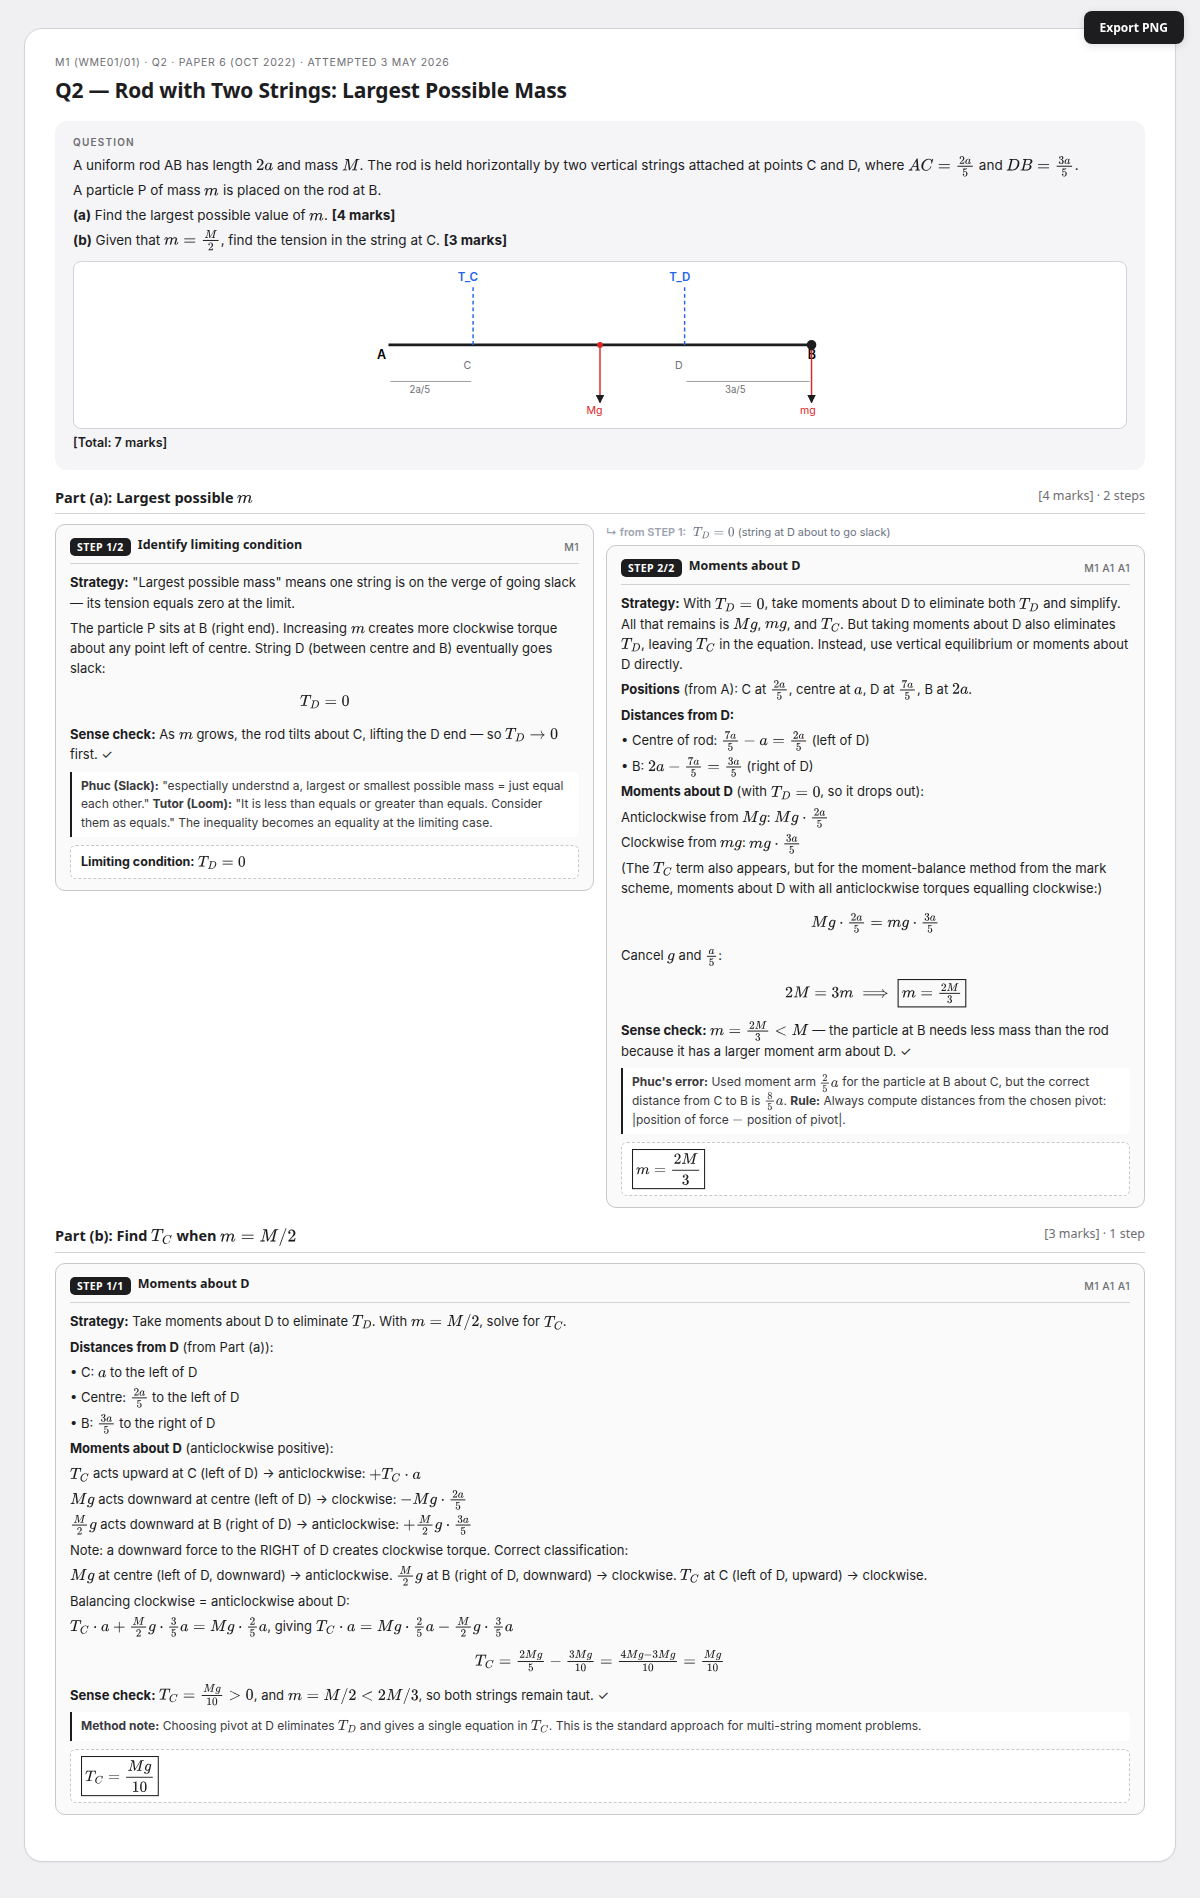
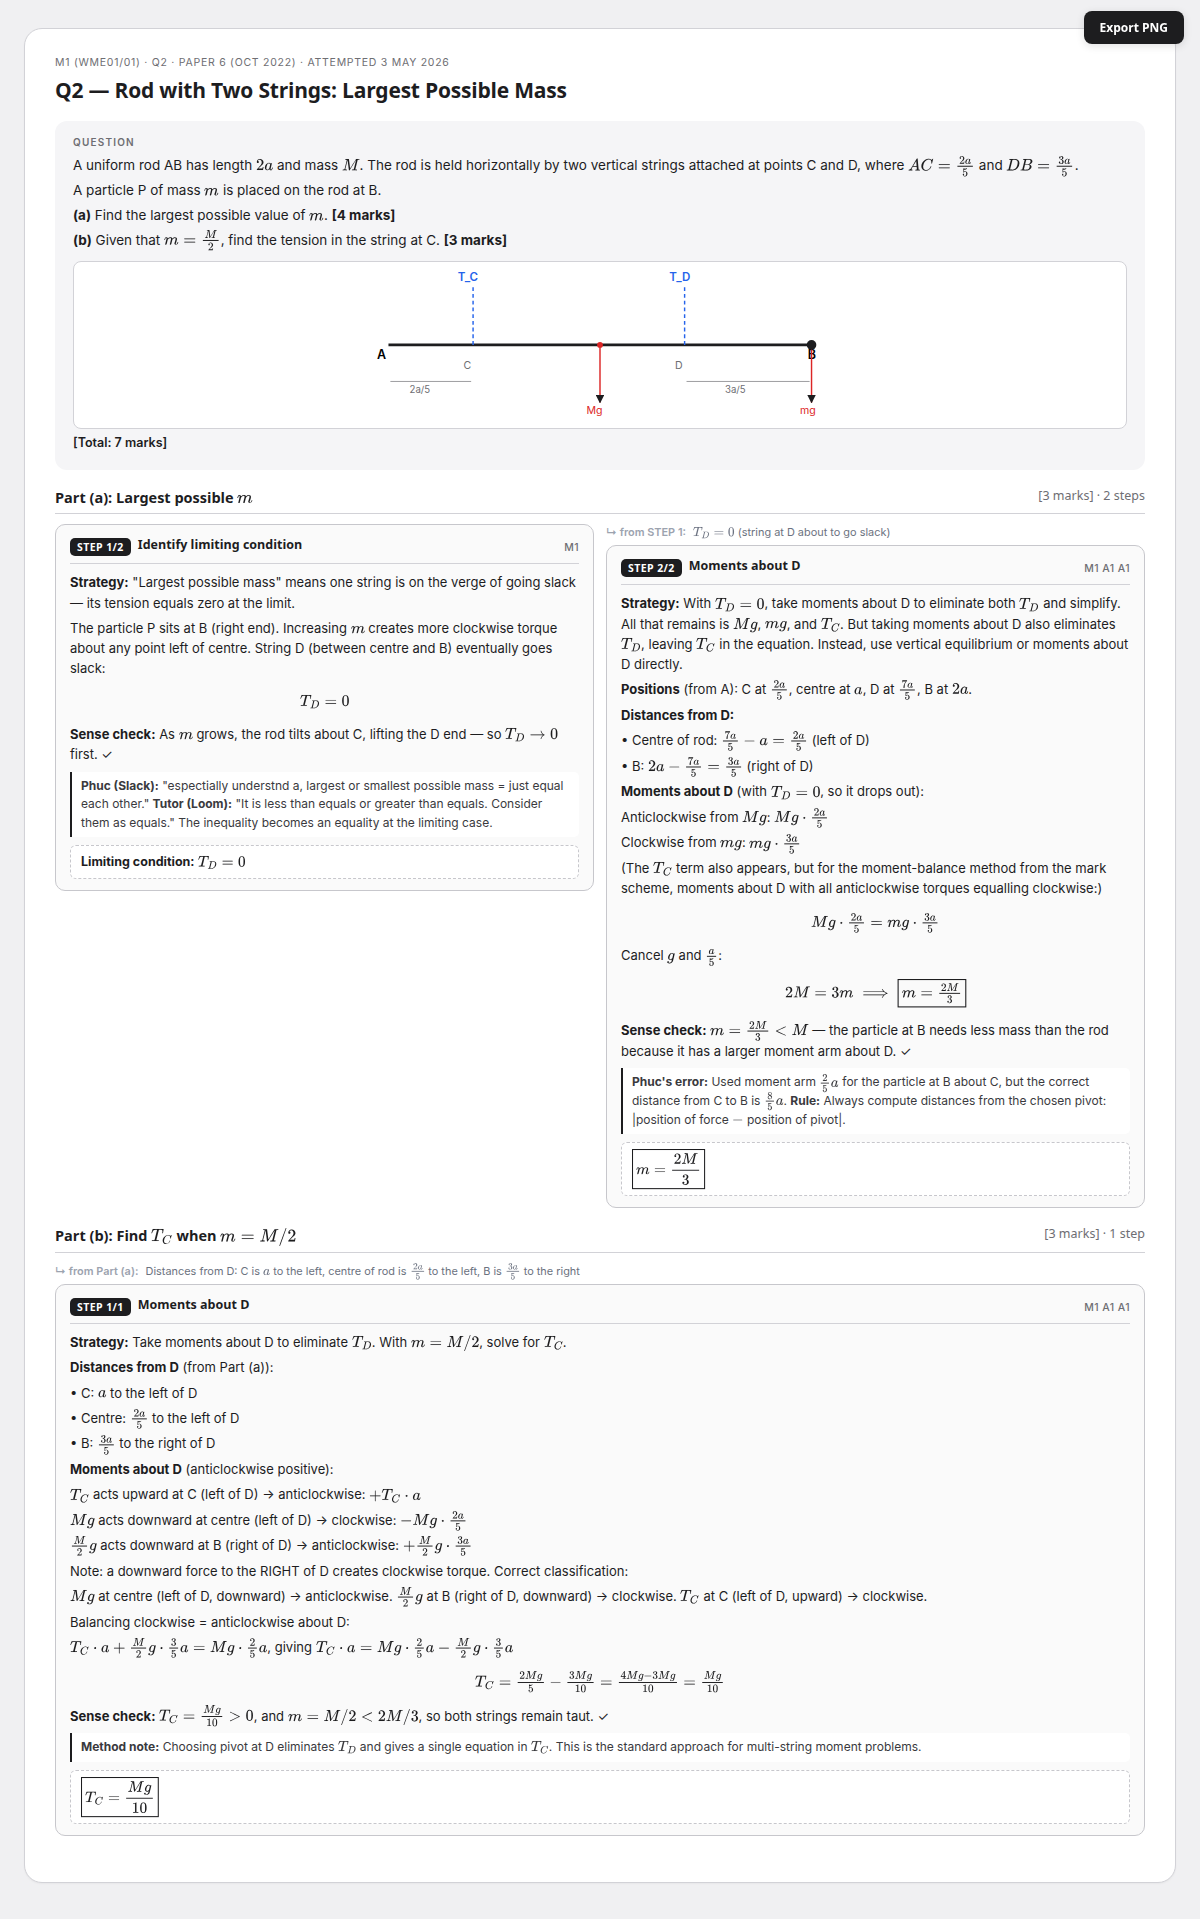
fix: expand carry-in divs for Q2(b) and Q6(b) — standalone solvable
Q2(b): added distances from D (C=a left, centre=2a/5 left, B=3a/5 right)
Q6(b): expanded from just '2p+q-4=0' to include 'R=(-3+p)i+(2+q)j'

diff --git a/flashcards/M1/m1p6_Q2.html b/flashcards/M1/m1p6_Q2.html
@@ -102,7 +102,9 @@ window.MathJax = {
     <div class="part">
       <h2 class="part-h">Part (b): Find $T_C$ when $m = M/2$ <span class="pmarks">[3 marks] · 1 step</span></h2>
       <div class="steps" style="grid-template-columns: 1fr;">
-        <div class="step-wrapper"><div class="step">
+        <div class="step-wrapper">
+          <div class="carry-in"><span class="carry-label">↳ from Part (a):</span> Distances from D: C is $a$ to the left, centre of rod is $\tfrac{2a}{5}$ to the left, B is $\tfrac{3a}{5}$ to the right</div>
+          <div class="step">
           <div class="step-top">
             <span class="step-tag"><span class="step-num">STEP 1/1</span> Moments about D</span>
             <span class="step-marks">M1 A1 A1</span>

diff --git a/flashcards/M1/m1p6_Q6.html b/flashcards/M1/m1p6_Q6.html
@@ -82,7 +82,7 @@ window.MathJax = {
       <h2 class="part-h">Part (b): Speed at $t = 4$ given $p = 5$ <span class="pmarks">[5 marks] · 2 steps</span></h2>
       <div class="steps" style="grid-template-columns: repeat(2, 1fr);">
         <div class="step-wrapper">
-          <div class="carry-in"><span class="carry-label">↳ from Part (a):</span> $2p + q - 4 = 0$</div>
+          <div class="carry-in"><span class="carry-label">↳ from Part (a):</span> $\mathbf{R} = (-3+p)\mathbf{i} + (2+q)\mathbf{j}$, with constraint $2p + q - 4 = 0$</div>
           <div class="step">
           <div class="step-top">
             <span class="step-tag"><span class="step-num">STEP 1/2</span> Find acceleration vector</span>
